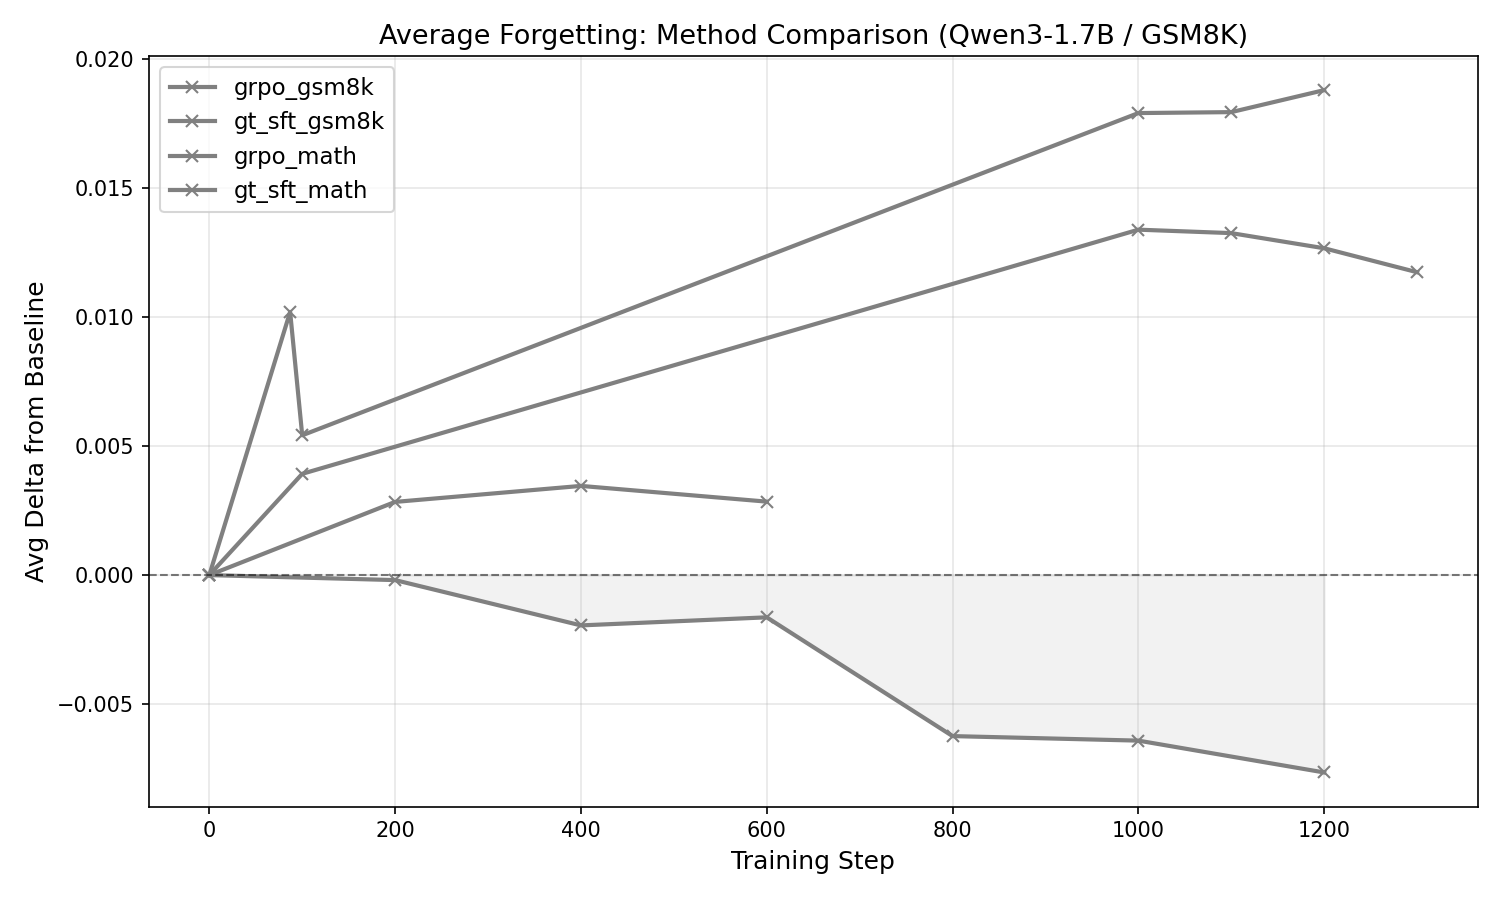
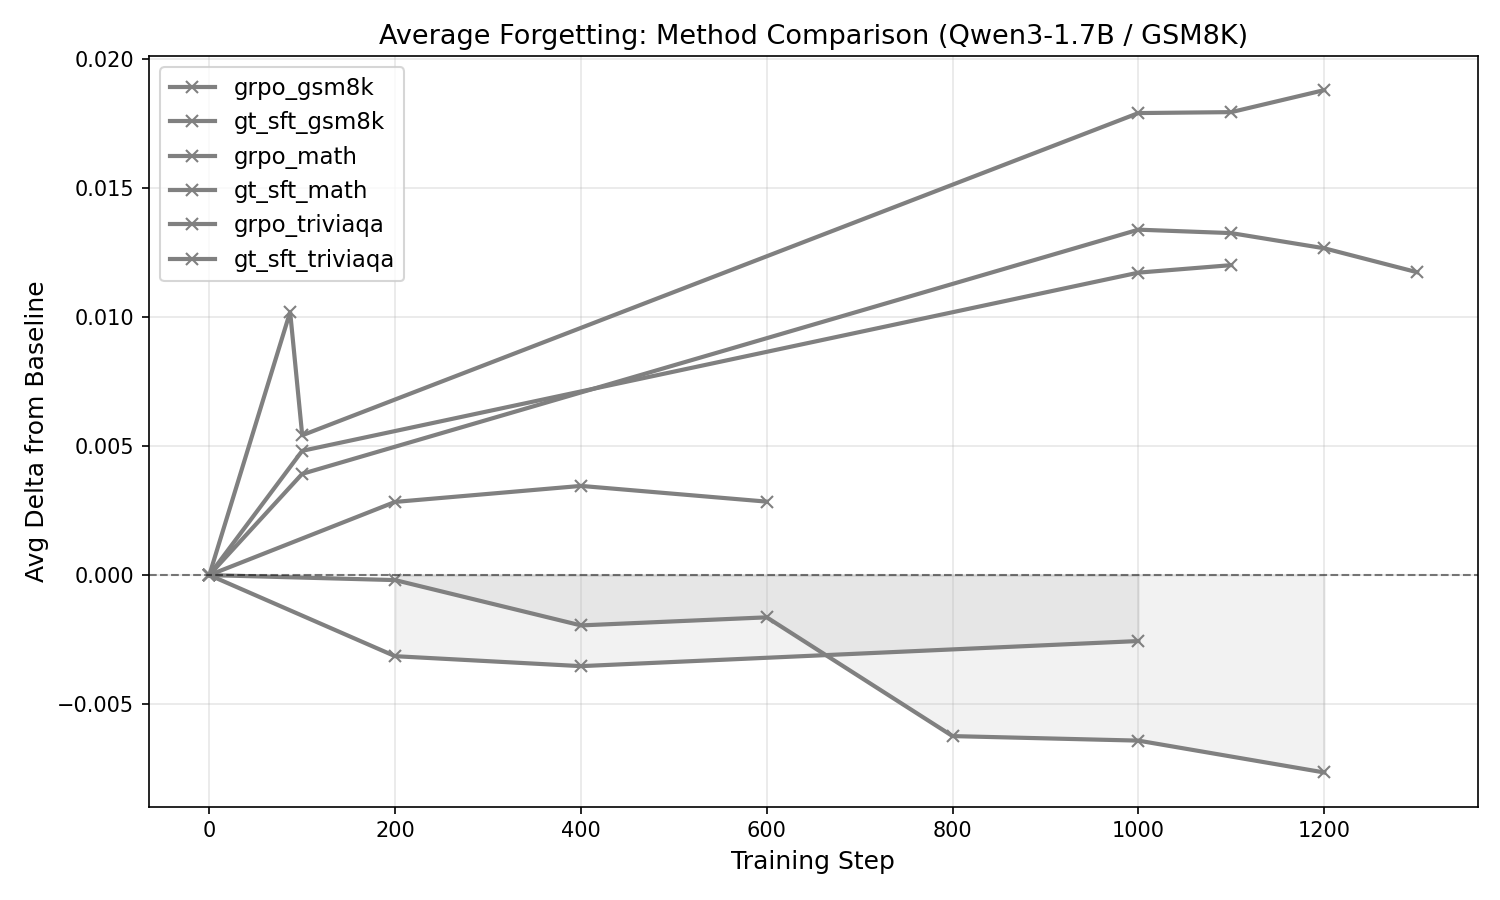
Major results update: all 6 experiments complete, task accuracy across 3 datasets
New results:
- GRPO TriviaQA: mild forgetting (-0.003 avg), 38%→99.7% task acc
- GT-SFT TriviaQA: no forgetting (+0.012 avg), 38%→37% task acc (no gain)
- GRPO MATH task acc: 11%→65%, GT-SFT MATH task acc: 11%→27%
- SF-SFT training complete (3 datasets), pending eval

Key findings across all 6 runs:
- GRPO excels at task learning but causes mild OOD forgetting
- GT-SFT improves OOD benchmarks but fails to improve task accuracy
- The <think> format mismatch explains GT-SFT's poor task performance
- Forgetting is method- and dataset-dependent

STATUS.md restructured with summary tables, collapsible per-experiment
details, and consolidated key findings.

diff --git a/STATUS.md b/STATUS.md
@@ -1,6 +1,6 @@
 # Experiment Status Tracker
 
-**Last updated:** 2026-03-03
+**Last updated:** 2026-03-05
 **WandB:** [forgetting-llms project](https://wandb.ai/laurent-charlin/forgetting-llms)
 **Repo:** [github.com/Emilianopp/forgetting-llms](https://github.com/Emilianopp/forgetting-llms)
 
@@ -95,142 +95,51 @@ All checkpoint paths relative to `~/scratch/forgetting-llms/`.
 
 ### Eval Sweeps (10 benchmarks)
 
-| Run | Total Ckpts | Done | Status | GPU | Notes |
-|-----|-------------|------|--------|-----|-------|
-| GRPO GSM8K | 6 + base | **7/7** | **COMPLETE** | A100 | 10 benchmarks |
-| GT-SFT GSM8K | 6 + base | **6/6** | **COMPLETE** | A100 | 8 benchmarks (steps 0, 87, 100, 1000–1200) |
-| GRPO MATH | 4 + base | **4/5** | **COMPLETE** | L40S | 10 benchmarks (step 800 missing results JSON) |
-| GT-SFT MATH | 14 + base | 6/15 | TIMED OUT | L40S | Resumable, 8 more checkpoints needed |
-| GT-SFT TriviaQA | 15 + base | 0/16 | **RUNNING** | L40S | Job 8864515 |
-| GRPO TriviaQA | 5 + base | 0/6 | **RUNNING** | L40S | Job 8864516 |
-| SF-SFT GSM8K | — | — | QUEUED | L40S | Training job 8870423, starts after evals |
-| SF-SFT MATH | — | — | QUEUED | L40S | Training job 8870424 |
-| SF-SFT TriviaQA | — | — | QUEUED | L40S | Training job 8870425 |
+| Run | OOD Eval | Task Acc | Status | Notes |
+|-----|----------|----------|--------|-------|
+| GRPO GSM8K | **7/7** | **Done** | **COMPLETE** | 10 benchmarks |
+| GT-SFT GSM8K | **6/6** | **Done** | **COMPLETE** | 8 benchmarks |
+| GRPO MATH | **4/5** | **Done** | **COMPLETE** | step 800 missing JSON |
+| GT-SFT MATH | 6/15 | **Done** | PARTIAL | 8 ckpts still need OOD eval |
+| GRPO TriviaQA | 4/6 | **Done** | PARTIAL | step 600, 800 missing |
+| GT-SFT TriviaQA | 4/16 | **Done** | PARTIAL | 11 ckpts still need OOD eval |
+| SF-SFT GSM8K | — | — | **TRAINED** | 14 ckpts, needs eval |
+| SF-SFT MATH | — | — | **TRAINED** | 6 ckpts, needs eval |
+| SF-SFT TriviaQA | — | — | **TRAINED** | 13 ckpts, needs eval |
 
-**Task Accuracy Evals** (in-distribution, via vLLM + unified_reward.py):
-
-| Run | Status | Notes |
-|-----|--------|-------|
-| GRPO GSM8K | **COMPLETE** | Base: 59.0% → Step 1200: 86.7% |
-| GT-SFT GSM8K | **COMPLETE** | Base: 59.0% → Step 1401: 54.7% (drops!) |
-| GT-SFT MATH | QUEUED | Job 8864517 |
-| GRPO MATH | QUEUED | Job 8864518 |
-| GT-SFT TriviaQA | QUEUED | Job 8864519 |
-| GRPO TriviaQA | QUEUED | Job 8864520 |
-
-All new jobs on L40S GPUs (46GB VRAM, validated). 2 jobs run in parallel (QOS: 8 CPU, 2 GPU limit).
+All eval/training jobs on L40S GPUs (46GB VRAM, validated). QOS: cpu=8, gpu=2 per user.
 
 ---
 
 ## Results
 
-### GRPO GSM8K — Forgetting (8 benchmarks, complete; 10 benchmarks, partial)
+### Summary: OOD Forgetting (avg delta from baseline)
 
-> GRPO on GSM8K causes mild but consistent forgetting across most benchmarks.
+| Method | GSM8K | MATH | TriviaQA |
+|--------|-------|------|----------|
+| **GRPO** | **-0.0076** | +0.0028 | **-0.0026** |
+| **GT-SFT** | +0.0188 | +0.0117 | +0.0120 |
 
-**8-benchmark results (complete, steps 200–1200):**
+### Summary: Task Accuracy (in-distribution)
 
-![GRPO GSM8K Forgetting Curves](figures/eval_results/grpo_gsm8k_forgetting_curves.png)
+![Task Accuracy All Datasets](figures/comparison/task_accuracy_comparison_all.png)
 
-![GRPO GSM8K Heatmap](figures/eval_results/grpo_gsm8k_heatmap.png)
+| Method | Dataset | Base | Best | Best Step | Trend |
+|--------|---------|------|------|-----------|-------|
+| GRPO | GSM8K | 59.0% | **87.0%** | 600 | +28pp |
+| GT-SFT | GSM8K | 59.0% | 56.6% | 200 | -4pp, drops |
+| GRPO | MATH | 11.1% | **65.1%** | 800 | +54pp |
+| GT-SFT | MATH | 11.1% | 28.9% | 300 | +18pp, plateaus |
+| GRPO | TriviaQA | 38.4% | **99.7%** | 1000 | +61pp, saturates |
+| GT-SFT | TriviaQA | 38.1% | 37.4% | 600 | flat, no gain |
 
-![GRPO GSM8K Avg Forgetting](figures/eval_results/grpo_gsm8k_avg_forgetting.png)
+### Comparison: All Methods (6 runs × 3 datasets)
 
-| Metric | Value |
-|--------|-------|
-| Avg forgetting (8 benchmarks) | **-0.0076** |
-| Worst benchmark | BoolQ (-0.0223) |
-| 2nd worst | TruthfulQA (-0.0157) |
-| Task accuracy (step 1200) | 87.4% |
+#### Forgetting (delta from baseline)
 
-**10-benchmark results (partial: steps 0, 1000, 1200):**
+![Comparison Avg Forgetting](figures/comparison/avg_forgetting_comparison.png)
 
-![GRPO GSM8K 10-bench Forgetting](figures/eval_results/grpo_gsm8k_10bench_forgetting_curves.png)
-
-![GRPO GSM8K 10-bench Heatmap](figures/eval_results/grpo_gsm8k_10bench_heatmap.png)
-
-| Metric | Value |
-|--------|-------|
-| Avg forgetting (10 benchmarks) | **-0.0045** |
-| MMLU | +0.0016 (no forgetting) |
-| IFEval | +0.0148 (improved) |
-| Worst benchmark | BoolQ (-0.0223) |
-
-### GT-SFT GSM8K — Forgetting (8 benchmarks, steps 0–1000)
-
-> GT-SFT on GSM8K ground truth shows **no forgetting** — consistent improvement across the board.
-
-![GT-SFT GSM8K Forgetting Curves](figures/eval_results/gt_sft_gsm8k_forgetting_curves.png)
-
-![GT-SFT GSM8K Heatmap](figures/eval_results/gt_sft_gsm8k_heatmap.png)
-
-| Benchmark | Base | Step 1000 | Delta |
-|-----------|------|-----------|-------|
-| arc_challenge | 0.4309 | 0.4650 | **+0.0341** |
-| arc_easy | 0.7003 | 0.7416 | **+0.0412** |
-| hellaswag | 0.6045 | 0.6240 | **+0.0195** |
-| winogrande | 0.6069 | 0.6227 | **+0.0158** |
-| piqa | 0.7247 | 0.7291 | **+0.0044** |
-| boolq | 0.7771 | 0.7985 | **+0.0214** |
-| openbookqa | 0.3720 | 0.3780 | **+0.0060** |
-| truthfulqa_mc2 | 0.4597 | 0.4605 | **+0.0007** |
-| **Average** | | | **+0.0179** |
-
-*15-checkpoint eval with 10 benchmarks in progress (4/16 done).*
-
-### GT-SFT MATH — Forgetting (10 benchmarks, steps 0–1000)
-
-> GT-SFT on MATH shows **no forgetting** — improvement on 9/10 benchmarks. Only IFEval drops.
-
-![GT-SFT MATH Forgetting Curves](figures/eval_results/gt_sft_math/forgetting_curves.png)
-
-![GT-SFT MATH Delta](figures/eval_results/gt_sft_math/delta_from_baseline.png)
-
-![GT-SFT MATH Heatmap](figures/eval_results/gt_sft_math/heatmap.png)
-
-| Benchmark | Base | Step 1000 | Step 1300 | Delta (1300) |
-|-----------|------|-----------|-----------|-------------|
-| arc_challenge | 0.4309 | 0.4505 | 0.4522 | **+0.0213** |
-| arc_easy | 0.7003 | 0.7269 | 0.7252 | **+0.0248** |
-| hellaswag | 0.6045 | 0.6266 | 0.6263 | **+0.0218** |
-| winogrande | 0.6069 | 0.6219 | 0.6243 | **+0.0174** |
-| piqa | 0.7247 | 0.7361 | 0.7356 | **+0.0109** |
-| boolq | 0.7771 | 0.7994 | 0.7994 | **+0.0223** |
-| openbookqa | 0.3720 | 0.3860 | 0.3860 | **+0.0140** |
-| truthfulqa_mc2 | 0.4597 | 0.4668 | 0.4669 | **+0.0072** |
-| mmlu | 0.5546 | 0.5688 | 0.5673 | **+0.0127** |
-| ifeval | 0.1756 | 0.1571 | 0.1405 | **-0.0351** |
-| **Average** | | | | **+0.0117** |
-
-*6/14 checkpoints done. 8 more evaluating (job 8864513 timed out, will resume).*
-
-### GRPO MATH — Forgetting (10 benchmarks, steps 0–600, COMPLETE)
-
-> GRPO on MATH shows **essentially no forgetting** — +0.003 avg delta. IFEval actually improves (+0.031).
-
-![GRPO MATH Forgetting Curves](figures/eval_results/grpo_math/forgetting_curves.png)
-
-![GRPO MATH Avg Forgetting](figures/eval_results/grpo_math/average_forgetting.png)
-
-![GRPO MATH Heatmap](figures/eval_results/grpo_math/heatmap.png)
-
-| Benchmark | Base | Step 600 | Delta |
-|-----------|------|----------|-------|
-| arc_challenge | 0.4343 | 0.4343 | 0.0000 |
-| arc_easy | 0.6978 | 0.7066 | **+0.0088** |
-| hellaswag | 0.6044 | 0.6067 | +0.0023 |
-| winogrande | 0.6148 | 0.6077 | -0.0071 |
-| piqa | 0.7214 | 0.7203 | -0.0011 |
-| boolq | 0.7765 | 0.7679 | -0.0086 |
-| openbookqa | 0.3640 | 0.3680 | +0.0040 |
-| truthfulqa_mc2 | 0.4582 | 0.4515 | -0.0067 |
-| mmlu | 0.5550 | 0.5603 | **+0.0053** |
-| ifeval | 0.1664 | 0.1978 | **+0.0314** |
-| **Average** | | | **+0.0028** |
-
-### Comparison: GRPO vs GT-SFT (GSM8K + MATH)
-
-Four methods compared: GRPO GSM8K, GT-SFT GSM8K, GRPO MATH, GT-SFT MATH.
+![Comparison Heatmap](figures/comparison/heatmap_comparison.png)
 
 #### Benchmark Accuracy (absolute scores per step)
 
@@ -238,38 +147,71 @@ Four methods compared: GRPO GSM8K, GT-SFT GSM8K, GRPO MATH, GT-SFT MATH.
 
 ![Average Benchmark Accuracy](figures/comparison/absolute_scores_comparison.png)
 
-#### Forgetting (delta from baseline)
+### Per-Experiment Details
 
-![Comparison Avg Forgetting](figures/comparison/avg_forgetting_comparison.png)
+<details>
+<summary>GRPO GSM8K (7 checkpoints, 10 benchmarks)</summary>
 
-![Comparison Per Benchmark](figures/comparison/per_benchmark_comparison.png)
+![GRPO GSM8K Forgetting](figures/eval_results/grpo_gsm8k_forgetting_curves.png)
+![GRPO GSM8K Heatmap](figures/eval_results/grpo_gsm8k_heatmap.png)
 
-![Comparison Heatmap](figures/comparison/heatmap_comparison.png)
+Avg forgetting: **-0.0076**. Worst: BoolQ (-0.022), TruthfulQA (-0.016). Task acc: 59% → 87%.
+</details>
 
-#### Cross-Dataset Summary
+<details>
+<summary>GT-SFT GSM8K (6 checkpoints, 8 benchmarks)</summary>
 
-![Cross-Dataset Summary](figures/comparison_cross/cross_dataset_summary.png)
+![GT-SFT GSM8K Forgetting](figures/eval_results/gt_sft_gsm8k_forgetting_curves.png)
+![GT-SFT GSM8K Heatmap](figures/eval_results/gt_sft_gsm8k_heatmap.png)
 
-#### Task Accuracy (In-Distribution)
+Avg delta: **+0.0188**. All benchmarks improve. Task acc: 59% → 55% (format mismatch).
+</details>
 
-![Task Accuracy Comparison GSM8K](figures/comparison/task_accuracy_comparison_gsm8k.png)
+<details>
+<summary>GRPO MATH (4 checkpoints, 10 benchmarks)</summary>
 
-| Method | Dataset | Base | Best Step | Best Acc | Trend |
-|--------|---------|------|-----------|----------|-------|
-| GRPO | GSM8K | 59.0% | 600 | **87.0%** | +28pp, huge gain |
-| GT-SFT | GSM8K | 59.0% | 87 | 56.6% | -4pp, drops and stays low |
-| GRPO | MATH | — | — | — | Eval pending |
-| GT-SFT | MATH | — | — | — | Eval pending |
+![GRPO MATH Forgetting](figures/eval_results/grpo_math/forgetting_curves.png)
+![GRPO MATH Heatmap](figures/eval_results/grpo_math/heatmap.png)
 
-**Key findings:**
-- **GT-SFT improves OOD benchmarks** — scores go UP on both GSM8K (+0.019 avg) and MATH (+0.012 avg). No forgetting.
-- **GRPO on GSM8K causes mild forgetting** (-0.008 avg), worst on BoolQ (-0.022) and TruthfulQA (-0.016)
-- **GRPO on MATH causes no forgetting** (+0.003 avg) — IFEval actually improves (+0.031)
-- **GRPO dramatically improves task accuracy** (59% → 87% on GSM8K), while **GT-SFT drops task accuracy** (59% → 55%)
-- The GT-SFT task accuracy drop is a **generation format mismatch**: base model uses `<think>` reasoning mode which SFT training overwrites with short-form answers
-- **SF-SFT training launched** — uses Qwen3-32B teacher solutions that preserve `<think>` format, should fix the task accuracy issue
-- GT-SFT on MATH shows same pattern as GSM8K: OOD benchmarks improve, IFEval is the only one that drops
-- Forgetting is **method- and dataset-dependent**: GRPO forgets on GSM8K but not MATH
+Avg delta: **+0.0028**. No forgetting. IFEval improves +0.031. Task acc: 11% → 65%.
+</details>
+
+<details>
+<summary>GT-SFT MATH (6/14 checkpoints, 10 benchmarks)</summary>
+
+![GT-SFT MATH Forgetting](figures/eval_results/gt_sft_math/forgetting_curves.png)
+![GT-SFT MATH Heatmap](figures/eval_results/gt_sft_math/heatmap.png)
+
+Avg delta: **+0.0117**. 9/10 benchmarks improve, IFEval drops -0.035. Task acc: 11% → 27%.
+</details>
+
+<details>
+<summary>GRPO TriviaQA (4/5 checkpoints, 10 benchmarks)</summary>
+
+![GRPO TriviaQA Forgetting](figures/eval_results/grpo_triviaqa/forgetting_curves.png)
+![GRPO TriviaQA Heatmap](figures/eval_results/grpo_triviaqa/heatmap.png)
+
+Avg delta: **-0.0026**. Mild forgetting on TruthfulQA (-0.009), IFEval (-0.013). Task acc: 38% → 99.7%.
+</details>
+
+<details>
+<summary>GT-SFT TriviaQA (4/15 checkpoints, 10 benchmarks)</summary>
+
+![GT-SFT TriviaQA Forgetting](figures/eval_results/gt_sft_triviaqa/forgetting_curves.png)
+![GT-SFT TriviaQA Heatmap](figures/eval_results/gt_sft_triviaqa/heatmap.png)
+
+Avg delta: **+0.0120**. Most improve, but BoolQ (-0.013) and TruthfulQA (-0.029) drop. Task acc: 38% → 37% (no gain).
+</details>
+
+### Key Findings
+
+1. **GRPO excels at task learning, GT-SFT does not.** GRPO improves task accuracy dramatically (GSM8K +28pp, MATH +54pp, TriviaQA +61pp). GT-SFT either drops or barely moves task accuracy because it overwrites the model's native `<think>` reasoning with short-form answers.
+
+2. **GT-SFT improves OOD benchmarks, GRPO doesn't.** All 3 GT-SFT runs show +0.01–0.02 avg improvement on OOD benchmarks. GRPO shows mild forgetting on GSM8K (-0.008) and TriviaQA (-0.003), and no change on MATH (+0.003).
+
+3. **Forgetting is method- and dataset-dependent.** GRPO forgets on GSM8K and TriviaQA but not MATH. GT-SFT consistently improves OOD regardless of dataset.
+
+4. **The `<think>` format matters.** GT-SFT trains on short ground-truth solutions that don't use `<think>`, disrupting the model's chain-of-thought reasoning. SF-SFT (now trained, pending eval) uses Qwen3-32B teacher solutions that preserve `<think>` — expected to fix task accuracy while maintaining OOD performance.
 
 ---
 
@@ -307,13 +249,13 @@ All data in `~/scratch/forgetting-llms/data/`.
 
 ## TODO
 
-- [ ] Finish 4 remaining eval sweeps (GT-SFT MATH, GRPO MATH, GT-SFT TriviaQA, GRPO TriviaQA) — running on L40S
-- [ ] Finish 4 remaining task accuracy evals — queued, chained after sweeps
 - [x] Validate L40S GPUs for eval pipeline
-- [ ] Investigate GT-SFT task accuracy drop (59% → 55%) — likely `<think>` mode disruption
-- [ ] Submit SF-SFT training (3 datasets) — data ready
-- [ ] Submit SF-SFT eval sweeps (3 runs)
-- [ ] Regenerate comparison plots with all 6 experiments complete
+- [x] All 6 task accuracy evals (GRPO + GT-SFT × 3 datasets)
+- [x] SF-SFT training (3 datasets) — all complete
+- [ ] SF-SFT eval sweeps (OOD + task accuracy) — needs submission
+- [ ] Finish remaining OOD eval sweeps (GT-SFT MATH 8/14, GT-SFT TriviaQA 11/15, GRPO TriviaQA 1/5)
+- [ ] SF-SFT task accuracy evals
+- [ ] Regenerate comparison plots with all 9 experiments (3 methods × 3 datasets)
 - [ ] Start Phase 2: Qwen3-4B (repeat all experiments)
 - [ ] CF-SFT: need Llama-3.1-70B trajectories
 - [ ] SELF/SPIN: needs implementation
